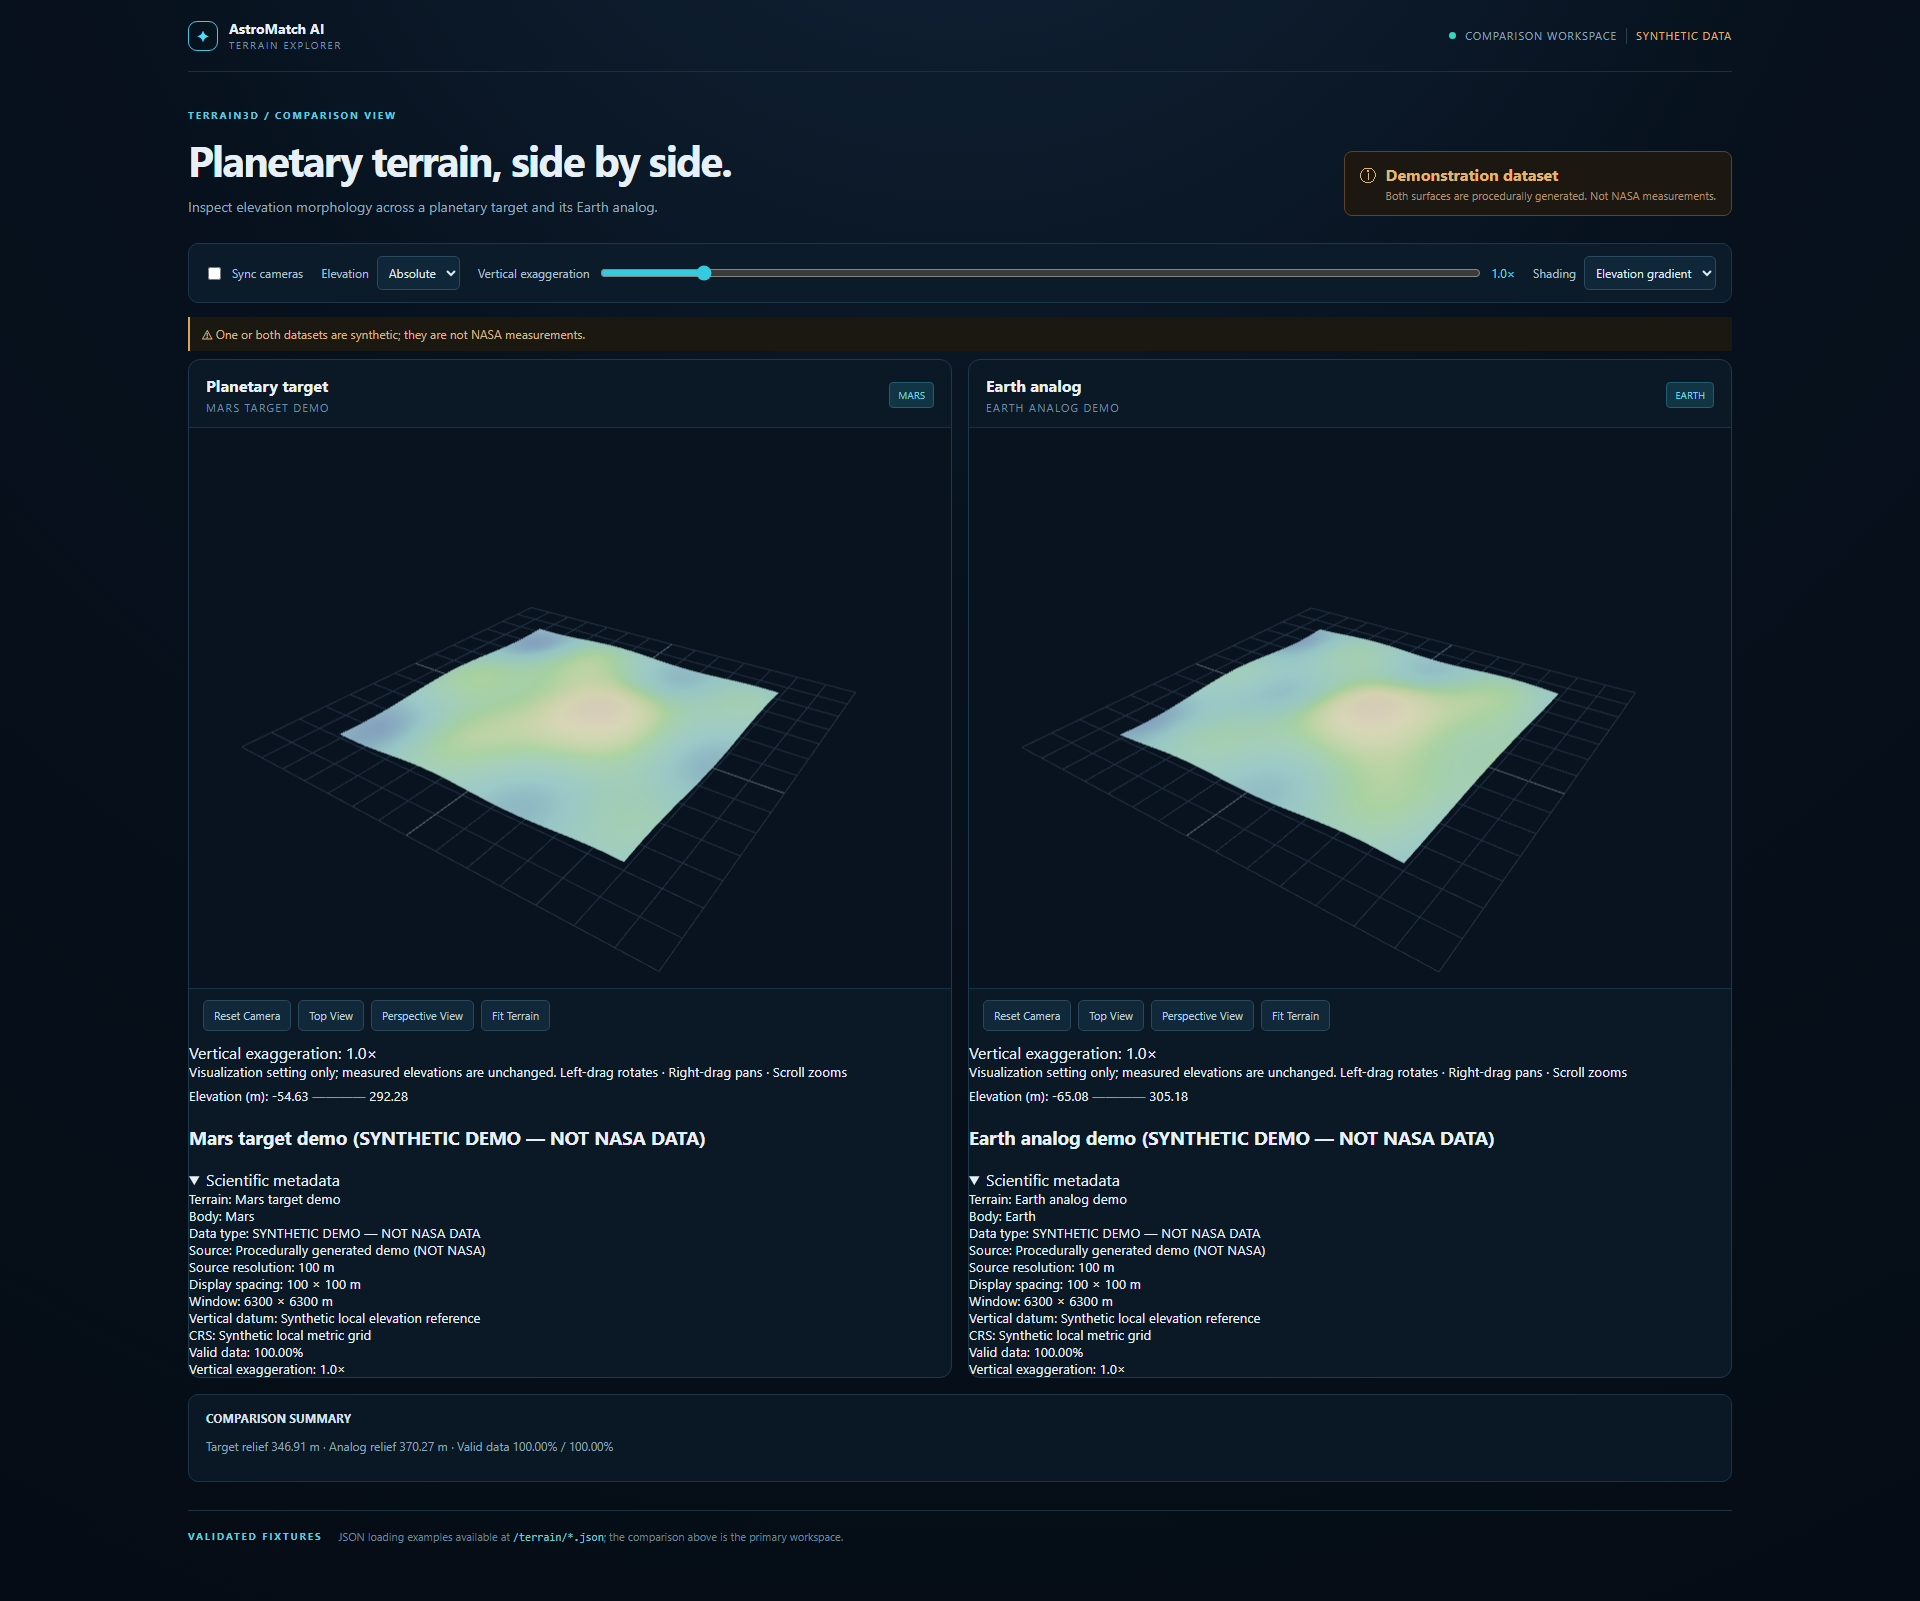
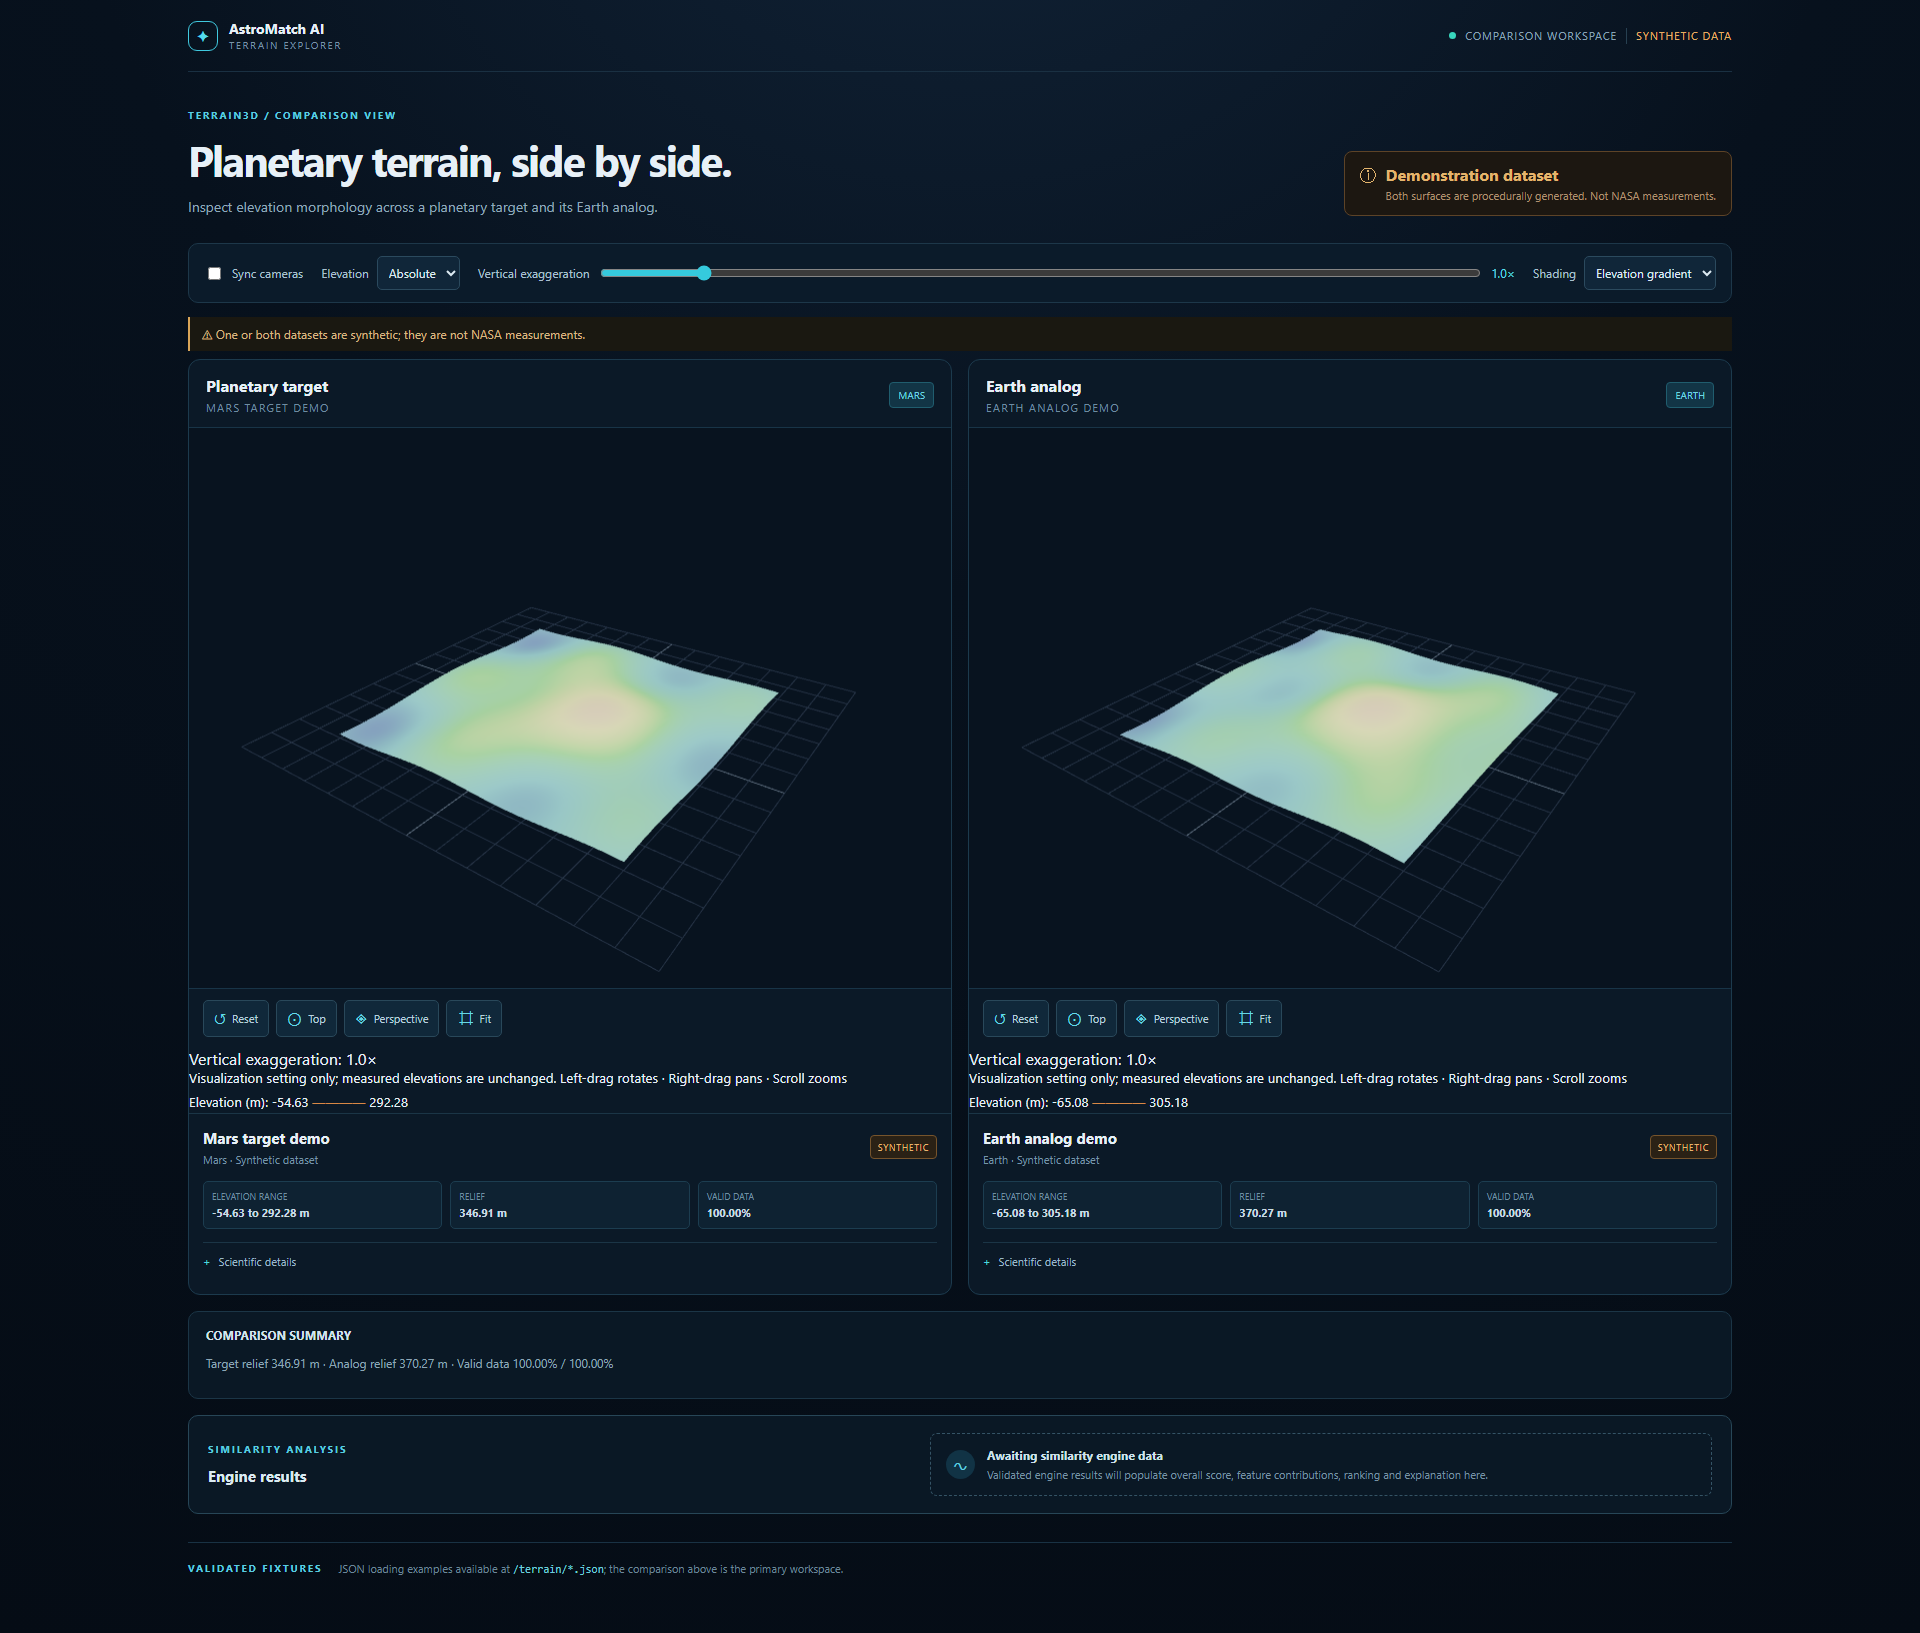
last comment

diff --git a/terrain3d/tests/browser_check.py b/terrain3d/tests/browser_check.py
@@ -50,9 +50,15 @@ with sync_playwright() as p:
         page.locator("input[aria-label='Vertical exaggeration']").fill("2.0")
         assert page.locator("output").filter(has_text="2.0").count() == 1
         page.locator("input").first.fill("/terrain/moon_demo.json")
-        page.get_by_role("heading", name="Synthetic Moon surface", exact=False).wait_for()
-        assert page.get_by_text("Valid data: 93.75%", exact=False).count() == 1
-        assert page.get_by_text("SYNTHETIC DEMO", exact=False).count() > 0
+        page.get_by_text("Synthetic Moon surface with NoData", exact=True).wait_for()
+        assert page.get_by_text("93.75%", exact=True).count() == 1
+        assert page.get_by_text("SYNTHETIC", exact=True).count() == 1
+        details = page.locator("details.terrain-metadata").first
+        assert details.evaluate("e => !e.open")
+        details.locator("summary").click()
+        assert details.evaluate("e => e.open")
+        for label in ["Reset Camera", "Top View", "Perspective View", "Fit Terrain"]:
+            assert page.get_by_role("button", name=label).count() == 1
         print("PASS isolated viewer geometry, rotation, pan, zoom, metadata, NoData, warning, exaggeration", flush=True)
     finally:
         assert not errors, errors
@@ -81,6 +87,17 @@ with sync_playwright() as p:
         assert page.locator("input[aria-label='Shared exaggeration']").input_value() == "2.5"
         assert page.get_by_text("synthetic", exact=False).count() > 0
         print("PASS isolated comparison bidirectional sync, independence, elevation modes, shared exaggeration, warnings", flush=True)
+    finally:
+        assert not errors, errors
+        browser.close()
+
+    browser, page, errors = launch(p)
+    try:
+        ready(page, "", 2)
+        assert page.get_by_text("Awaiting similarity engine data", exact=True).count() == 1
+        assert page.get_by_text("Demonstration dataset", exact=True).count() == 1
+        assert page.get_by_text("One or both datasets are synthetic", exact=False).count() == 1
+        print("PASS compact summaries, collapsed scientific details, camera toolbar, similarity empty state, synthetic warning", flush=True)
     finally:
         assert not errors, errors
         browser.close()
